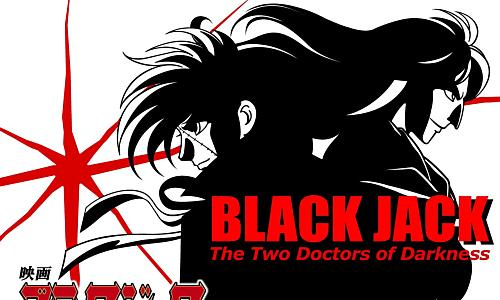
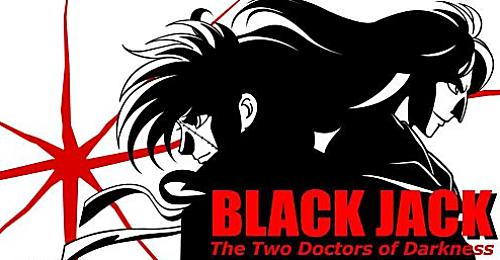
修改圖片大小等細節

diff --git a/intro.htm b/intro.htm
@@ -27,13 +27,14 @@
            angle = 0;
            imgBlackJack = new Image();
            imgBlackJack.onload = handleImageLoad;
-           imgBlackJack.src = "image/blackJack.jpg";
+           imgBlackJack.src = "image/blackJack_L.jpg";
            
          }
 
          function handleImageLoad(){
             var canvas = document.getElementById("pmckStory");
-            canvas.width = window.innerWidth;
+            canvas.width = 730;
+            canvas.height = 400;
 
             stageBlackJack = new createjs.Stage(canvas);
             stageTitle = new createjs.Stage(canvas);
@@ -120,7 +121,7 @@
                <br>
                <div class="hidden-xs">
                   <canvas id="pmckStory" width="600" height=300>
-                     <img style="max-width:100%;" src="image/Black_Jack.jpg"></img>
+                     <img style="max-width:100%;" src="image/BlackJack_L.jpg"></img>
                   </canvas>
                </div>
                <div class="visible-xs">
